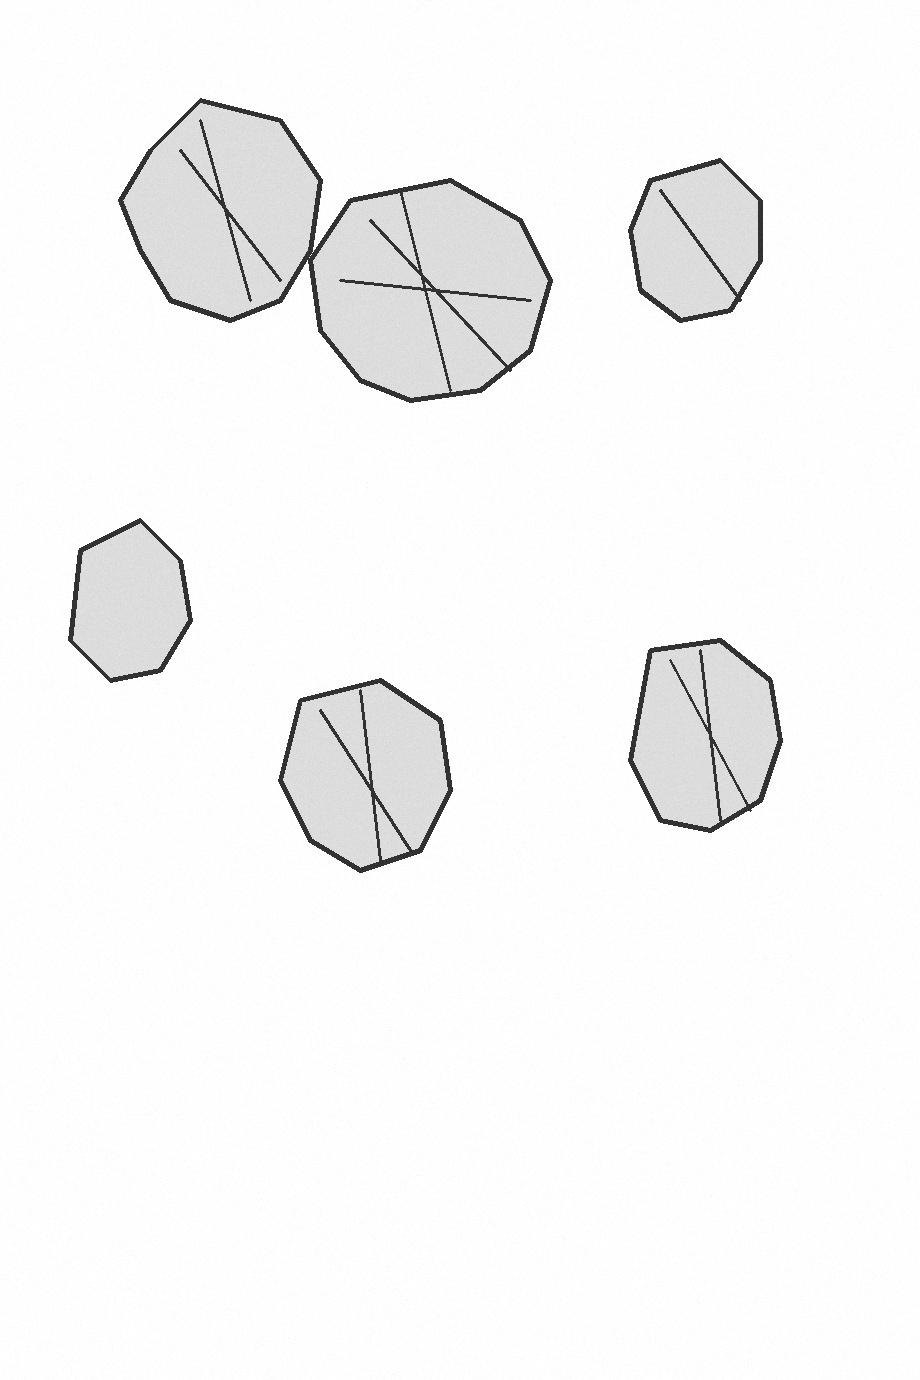
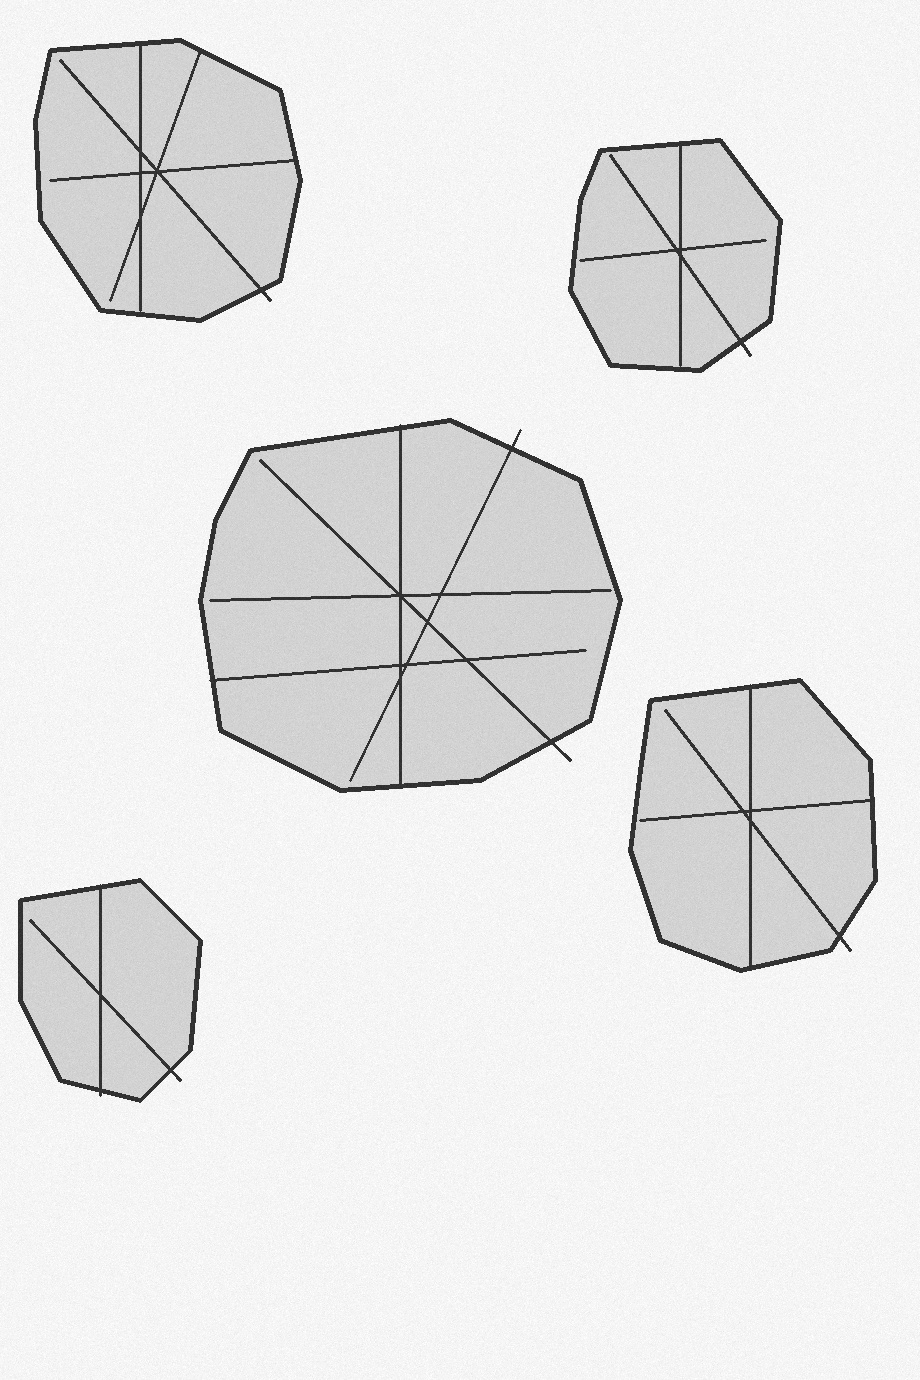
Implement proper watershed segmentation with internal segment detection

Changed region(s): [[0.0304, 0.0312, 0.9739, 0.7167], [0.0, 0.6232, 0.2435, 0.8101]]

diff --git a/watershed_segmentation.py b/watershed_segmentation.py
@@ -2,8 +2,9 @@
 """
 Watershed Segmentation for Image Processing
 
-This script performs watershed segmentation on an input image and exports
-the segmented regions as separate SVG paths.
+This script performs TRUE watershed segmentation on an input image, detecting
+internal fracture lines within objects and exporting each distinct segment
+as a separate SVG path.
 
 Usage:
     ./watershed_segmentation.py input_image.jpg [--output output.svg]
@@ -29,66 +30,98 @@ def load_image(img_path: Path):
     return img_rgb, gray, img.shape[:2]
 
 
-def preprocess_image(gray):
-    """Preprocess image for watershed segmentation."""
-    # Apply bilateral filter to reduce noise while keeping edges sharp
-    denoised = cv2.bilateralFilter(gray, 9, 75, 75)
-    
-    # Apply adaptive thresholding to handle varying illumination
-    binary = cv2.adaptiveThreshold(
-        denoised, 255, cv2.ADAPTIVE_THRESH_GAUSSIAN_C,
-        cv2.THRESH_BINARY_INV, 11, 2
-    )
-    
-    # Remove small noise with morphological opening
-    kernel = np.ones((3, 3), np.uint8)
-    opening = cv2.morphologyEx(binary, cv2.MORPH_OPEN, kernel, iterations=2)
-    
-    return opening
-
-
-def perform_watershed(binary_img):
+def detect_edges(gray):
     """
-    Perform watershed segmentation on binary image.
+    Detect edges/fracture lines in the image.
+    This is crucial for watershed to find internal segments.
+    """
+    # Apply Gaussian blur to reduce noise
+    blurred = cv2.GaussianBlur(gray, (5, 5), 0)
+    
+    # Use Canny edge detection to find fracture lines
+    edges = cv2.Canny(blurred, 30, 100)
+    
+    # Dilate edges slightly to make them more prominent
+    kernel = np.ones((2, 2), np.uint8)
+    edges = cv2.dilate(edges, kernel, iterations=1)
+    
+    return edges
+
+
+def perform_watershed(gray, edges):
+    """
+    Perform TRUE watershed segmentation using marker-based approach.
+    
+    The strategy:
+    1. Detect fracture lines (edges)
+    2. Find regions between fractures (segment seeds)
+    3. Use watershed to fill from seeds, stopped by fractures
     
     Returns:
         labels: Array where each unique value represents a different segment
     """
-    # Distance transform to find sure foreground
-    dist_transform = cv2.distanceTransform(binary_img, cv2.DIST_L2, 5)
+    # Step 1: Identify objects (rocks)
+    _, binary = cv2.threshold(gray, 0, 255, cv2.THRESH_BINARY_INV + cv2.THRESH_OTSU)
     
-    # Threshold to get sure foreground
-    _, sure_fg = cv2.threshold(dist_transform, 0.3 * dist_transform.max(), 255, 0)
-    sure_fg = np.uint8(sure_fg)
-    
-    # Dilate to get sure background
+    # Clean up
     kernel = np.ones((3, 3), np.uint8)
-    sure_bg = cv2.dilate(binary_img, kernel, iterations=3)
+    binary = cv2.morphologyEx(binary, cv2.MORPH_CLOSE, kernel, iterations=2)
     
-    # Find unknown region
-    unknown = cv2.subtract(sure_bg, sure_fg)
+    # Step 2: Create elevation map where fractures are peaks
+    # Invert the image so dark regions (fractures) become high elevations
+    elevation = cv2.bitwise_not(gray)
     
-    # Label markers for watershed
-    _, markers = cv2.connectedComponents(sure_fg)
+    # Enhance fractures in the elevation map
+    # Add edge information
+    elevation = cv2.add(elevation, edges)
     
-    # Add 1 to all labels so background is not 0, but 1
-    markers = markers + 1
+    # Apply only within objects
+    elevation = cv2.bitwise_and(elevation, elevation, mask=binary)
     
-    # Mark the unknown region as 0
-    markers[unknown == 255] = 0
+    # Step 3: Find markers (segment seeds)
+    # These are local minima in the elevation map (centers of segments)
     
-    # Create a 3-channel image for watershed (needs color image)
-    img_for_watershed = cv2.merge([binary_img, binary_img, binary_img])
+    # Morphological opening removes peaks/fractures, leaving segment centers
+    opened = cv2.morphologyEx(elevation, cv2.MORPH_OPEN, kernel, iterations=3)
     
-    # Apply watershed
-    markers = cv2.watershed(img_for_watershed, markers)
+    # Distance transform on the opened image
+    dist = cv2.distanceTransform(opened, cv2.DIST_L2, 5)
     
-    return markers
+    # Threshold to find sure foreground markers
+    # Lower threshold = more segments
+    dist_max = dist.max()
+    if dist_max > 0:
+        _, markers = cv2.threshold(dist, 0.15 * dist_max, 255, 0)
+        markers = np.uint8(markers)
+    else:
+        markers = np.zeros_like(dist, dtype=np.uint8)
+    
+    # Label connected components
+    n_labels, labels = cv2.connectedComponents(markers)
+    
+    print(f"  Found {n_labels - 1} initial segment seeds")
+    
+    if n_labels <= 1:
+        # No markers found, return empty
+        return np.ones_like(gray, dtype=np.int32)
+    
+    # Markers need to start from 1 (0 is unknown)
+    labels = labels + 1
+    
+    # Mark background as 0
+    labels[binary == 0] = 0
+    
+    # Step 4: Apply watershed
+    elevation_3ch = cv2.cvtColor(elevation, cv2.COLOR_GRAY2BGR)
+    labels = cv2.watershed(elevation_3ch, labels)
+    
+    return labels
 
 
 def extract_contours(labels, min_area=50):
     """
-    Extract contours from segmented labels.
+    Extract contours from watershed-segmented labels.
+    Each segment within a rock gets its own contour.
     
     Args:
         labels: Watershed labels array
@@ -99,15 +132,17 @@ def extract_contours(labels, min_area=50):
     """
     contours_list = []
     
-    # Get unique labels (excluding background -1 and 1)
+    # Get unique labels (excluding background 1 and boundary -1)
     unique_labels = np.unique(labels)
     unique_labels = unique_labels[(unique_labels > 1)]
     
+    print(f"Found {len(unique_labels)} watershed segments")
+    
     for label in unique_labels:
-        # Create binary mask for this label
+        # Create binary mask for this segment
         mask = np.uint8(labels == label) * 255
         
-        # Find contours
+        # Find contours for this segment
         contours, _ = cv2.findContours(mask, cv2.RETR_EXTERNAL, cv2.CHAIN_APPROX_SIMPLE)
         
         for contour in contours:
@@ -115,7 +150,7 @@ def extract_contours(labels, min_area=50):
             area = cv2.contourArea(contour)
             if area >= min_area:
                 # Simplify contour to reduce points
-                epsilon = 0.005 * cv2.arcLength(contour, True)
+                epsilon = 0.01 * cv2.arcLength(contour, True)
                 approx = cv2.approxPolyDP(contour, epsilon, True)
                 
                 # Convert to list of (x, y) tuples
@@ -186,7 +221,7 @@ def export_svg(contours, width, height, output_path: Path):
 
 def main():
     parser = argparse.ArgumentParser(
-        description="Perform watershed segmentation and export to SVG"
+        description="Perform TRUE watershed segmentation to detect internal segments within objects"
     )
     parser.add_argument(
         "input",
@@ -205,6 +240,11 @@ def main():
         default=50,
         help="Minimum area threshold for segments (default: 50 pixels)"
     )
+    parser.add_argument(
+        "--debug",
+        action="store_true",
+        help="Save debug visualization images"
+    )
     
     args = parser.parse_args()
     
@@ -221,16 +261,66 @@ def main():
     print(f"Loading image: {input_path}")
     img_rgb, gray, (height, width) = load_image(input_path)
     
-    print("Preprocessing image...")
-    binary = preprocess_image(gray)
+    print("Detecting edges and fracture lines...")
+    edges = detect_edges(gray)
     
     print("Performing watershed segmentation...")
-    labels = perform_watershed(binary)
+    labels = perform_watershed(gray, edges)
+    
+    if args.debug:
+        # Save debug visualizations
+        debug_dir = input_path.parent / f"{input_path.stem}_debug"
+        debug_dir.mkdir(exist_ok=True)
+        
+        # Recompute some intermediate values for visualization
+        grad_x = cv2.Sobel(gray, cv2.CV_64F, 1, 0, ksize=3)
+        grad_y = cv2.Sobel(gray, cv2.CV_64F, 0, 1, ksize=3)
+        gradient = np.sqrt(grad_x**2 + grad_y**2)
+        gradient = cv2.convertScaleAbs(gradient)
+        
+        # Save edges
+        cv2.imwrite(str(debug_dir / "01_edges.png"), edges)
+        
+        # Save gradient
+        cv2.imwrite(str(debug_dir / "02_gradient.png"), gradient)
+        
+        # Save labeled regions with different colors
+        label_overlay = np.zeros_like(img_rgb)
+        unique_labels = np.unique(labels)
+        unique_labels = unique_labels[unique_labels > 1]
+        
+        import matplotlib.pyplot as plt
+        if len(unique_labels) > 0:
+            colors = plt.cm.rainbow(np.linspace(0, 1, len(unique_labels)))
+            
+            for idx, label in enumerate(unique_labels):
+                mask = labels == label
+                label_overlay[mask] = (np.array(colors[idx][:3]) * 255).astype(np.uint8)
+        
+        # Blend with original
+        blended = cv2.addWeighted(img_rgb, 0.4, label_overlay, 0.6, 0)
+        cv2.imwrite(str(debug_dir / "03_segments_overlay.png"), cv2.cvtColor(blended, cv2.COLOR_RGB2BGR))
+        
+        # Save boundaries (watershed lines)
+        boundary_img = img_rgb.copy()
+        boundary_img[labels == -1] = [255, 0, 0]
+        cv2.imwrite(str(debug_dir / "04_boundaries.png"), cv2.cvtColor(boundary_img, cv2.COLOR_RGB2BGR))
+        
+        # Save just the segments colored
+        segment_img = label_overlay.copy()
+        cv2.imwrite(str(debug_dir / "05_segments_only.png"), cv2.cvtColor(segment_img, cv2.COLOR_RGB2BGR))
+        
+        print(f"Debug images saved to: {debug_dir}")
+        print(f"  - 01_edges.png: Detected edges/fractures")
+        print(f"  - 02_gradient.png: Gradient magnitude")
+        print(f"  - 03_segments_overlay.png: Segments overlaid on original")
+        print(f"  - 04_boundaries.png: Watershed boundary lines")
+        print(f"  - 05_segments_only.png: Just the colored segments")
     
     print("Extracting contours...")
     contours = extract_contours(labels, min_area=args.min_area)
     
-    print(f"Found {len(contours)} segments")
+    print(f"Found {len(contours)} distinct segments")
     
     print(f"Exporting SVG to: {output_path}")
     export_svg(contours, width, height, output_path)
